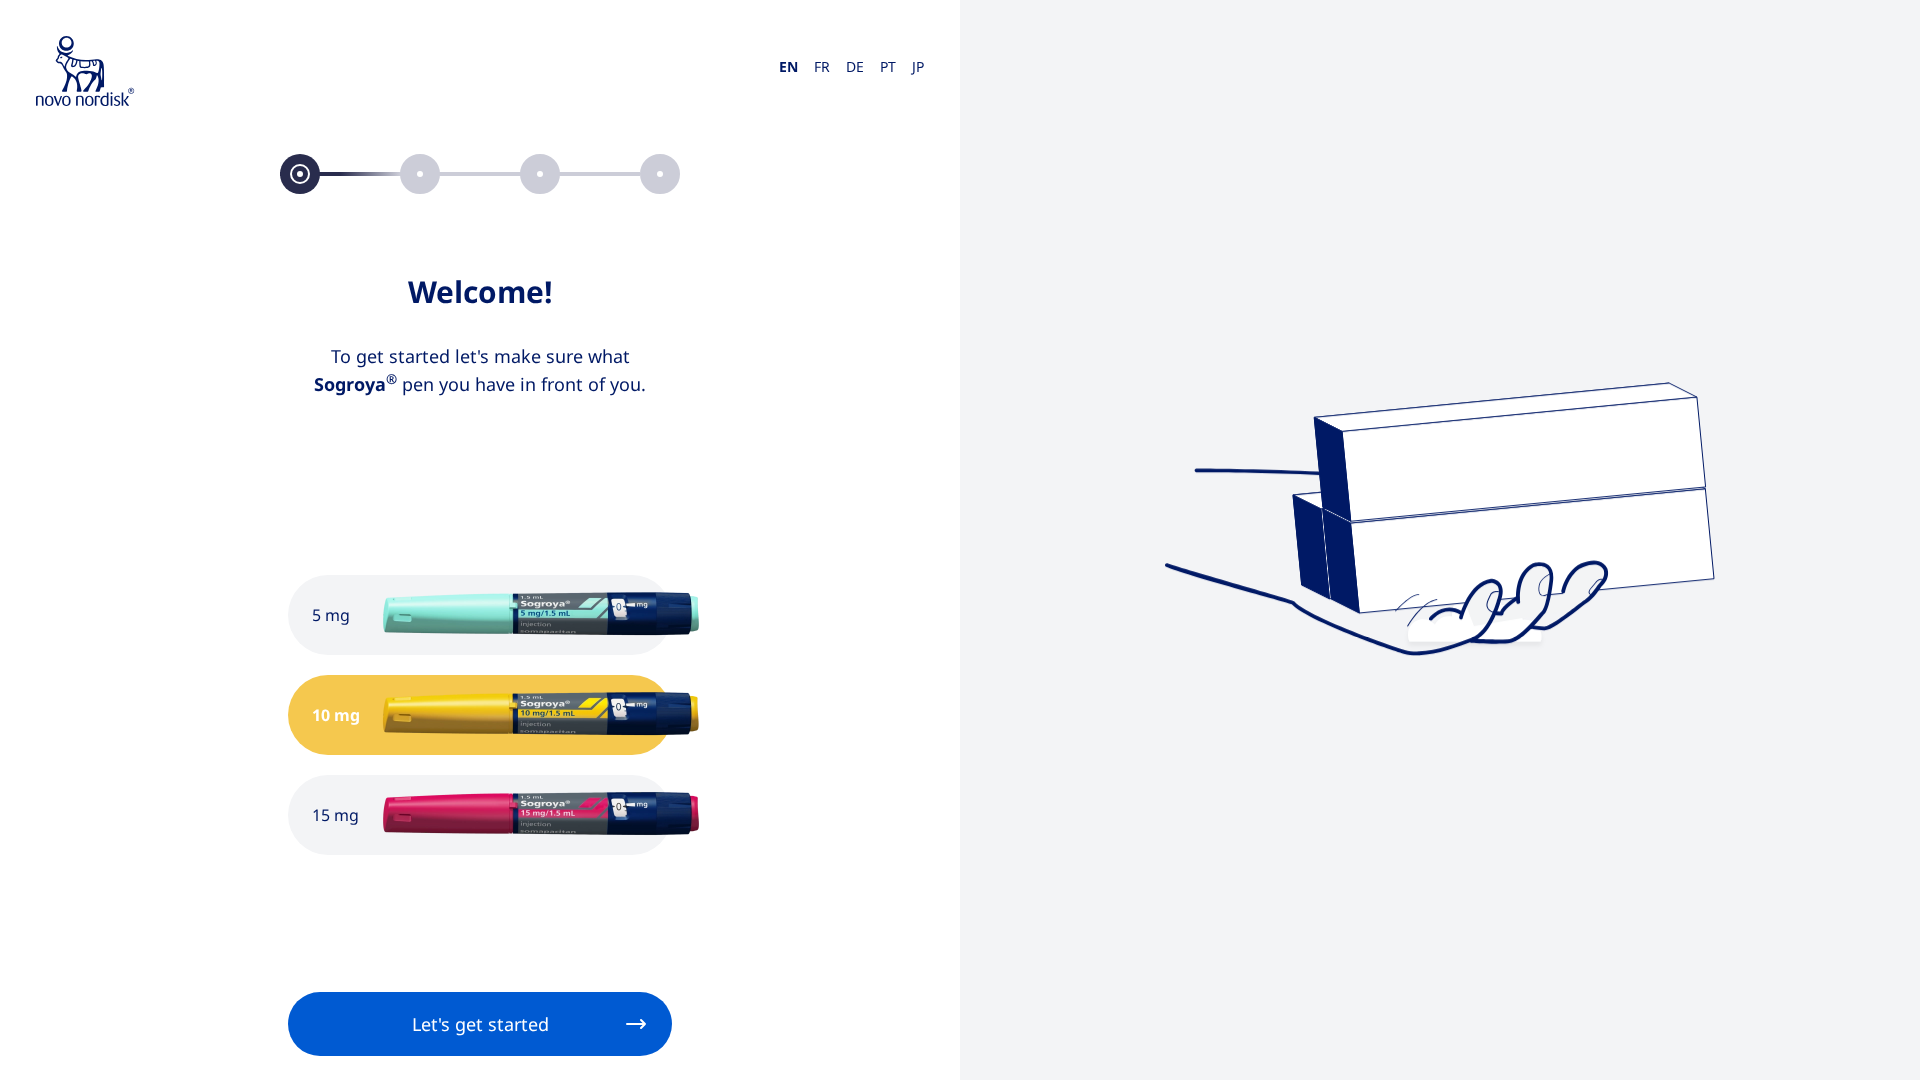
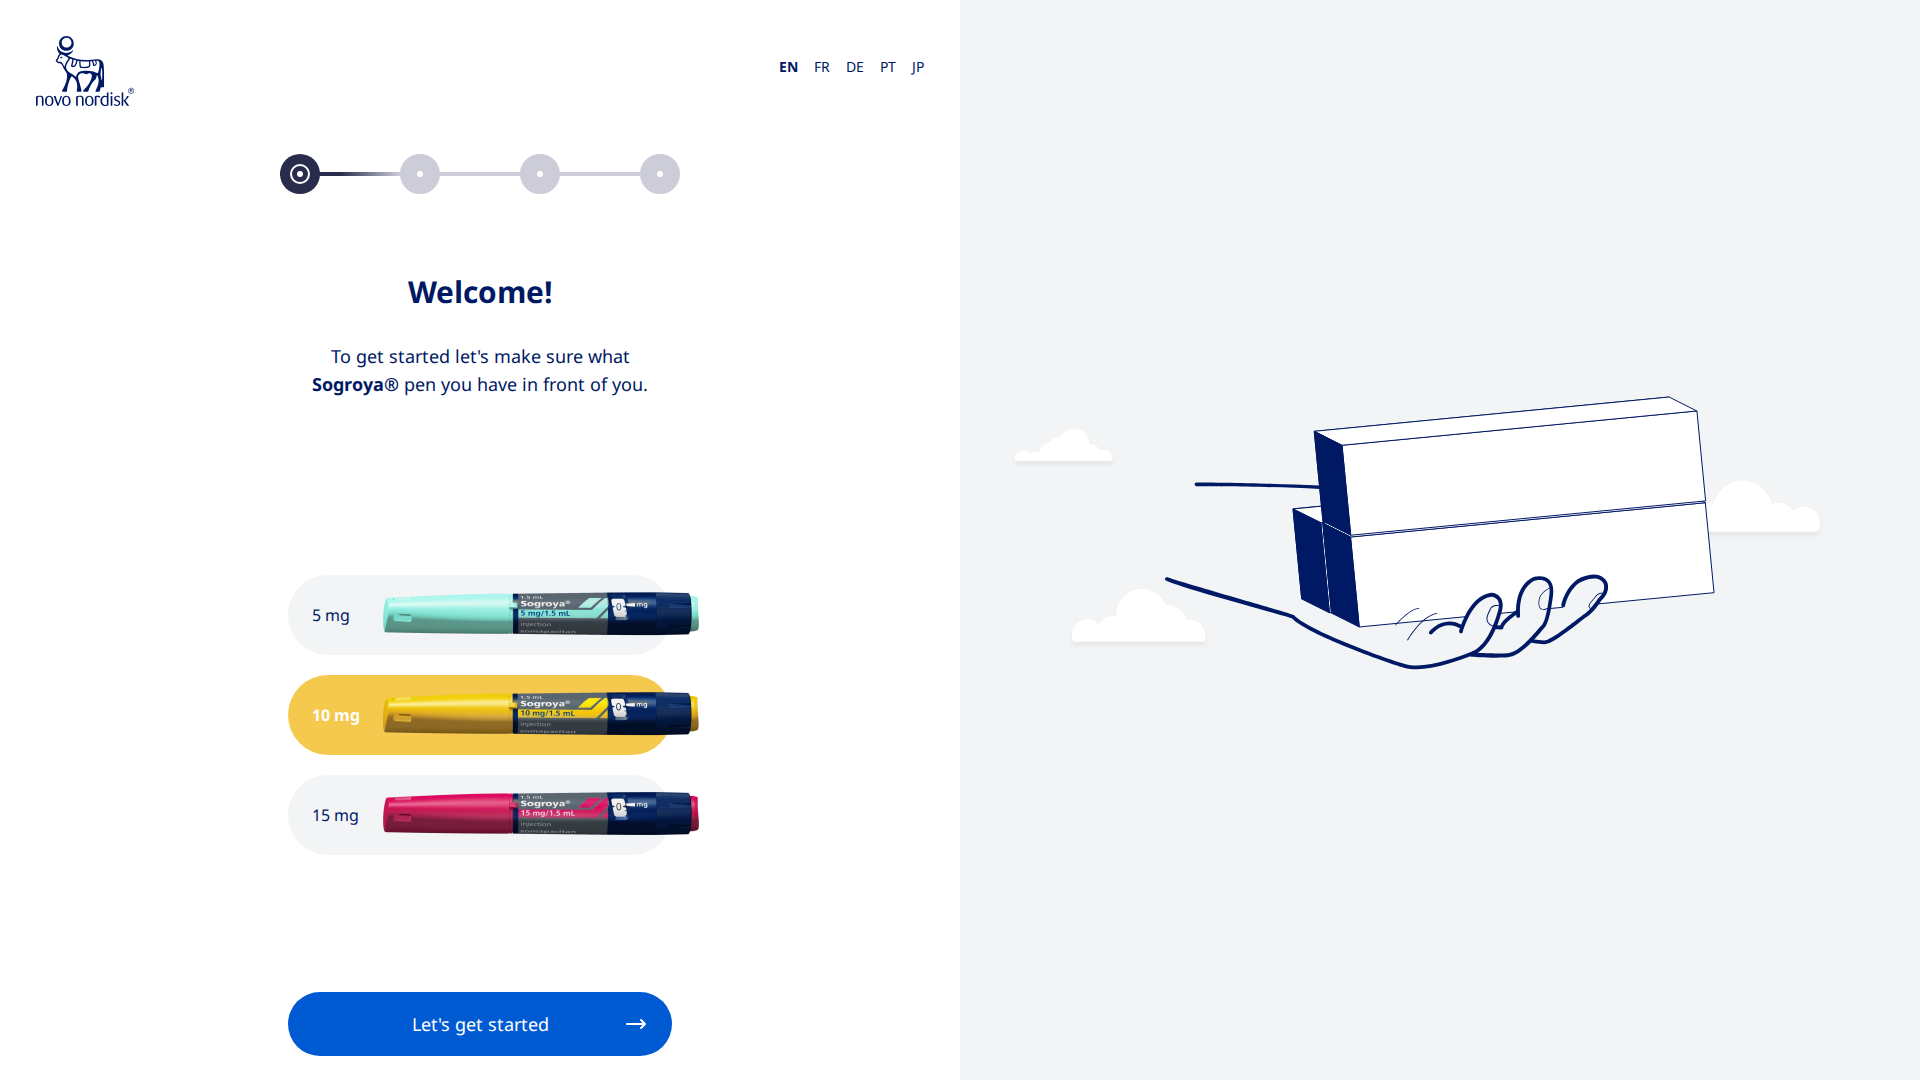
feat(projects): add Sogroya case study

diff --git a/lib/data.ts b/lib/data.ts
@@ -263,6 +263,31 @@ export const projects = {
         "Live at makearoley.com — processing 500+ kid-made movies monthly",
     },
     {
+      title: "Sogroya Dose Reminder",
+      slug: "sogroya",
+      description:
+        "A four-step multilingual web app for setting once-weekly Sogroya medication reminders on mobile and desktop calendars. I built the SvelteKit + TypeScript SPA, five-language flow (English, French, German, Portuguese, and Japanese), privacy consent, dose/day/time selection, and in-browser ICS generation. Static deployment kept the experience fast, backend-free, and easy to distribute globally. Completed in 2023 and remained publicly accessible on its branded domain through at least July 2025.",
+      role: "Full-stack",
+      tags: [
+        "SvelteKit",
+        "TypeScript",
+        "Tailwind CSS",
+        "i18n",
+        "ICS",
+        "Vercel",
+      ],
+      screenshotURLs: [
+        "01-home.png",
+        "02-consent.png",
+        "03-schedule.png",
+        "04-download.png",
+      ],
+      madeForName: "Novo Nordisk",
+      madeForURL: "https://www.novonordisk.com/",
+      archived: true,
+      outcome: "Launched in 2023 for worldwide Novo Nordisk client use",
+    },
+    {
       title: "PayBridge",
       slug: "paybridge",
       description:

diff --git a/routes/llms-full.txt.ts b/routes/llms-full.txt.ts
@@ -98,6 +98,9 @@ ${blogList}
 - **Air Quality Sensor** (${BASE_URL}/projects/air-quality-sensor) — DIY ESP32-based air quality monitor with Home Assistant integration.
 - **Zond** (${BASE_URL}/projects/zond) — Internal health probe bridge for services behind SSO proxies. Probes HTTP endpoints through Authelia-secured gateways for Gatus and other monitoring tools.
 
+### Archived Client Case Study
+- **Sogroya Dose Reminder** (${BASE_URL}/projects/sogroya) — Once-weekly medication reminder launched in 2023 for worldwide Novo Nordisk client use. SvelteKit, TypeScript, five languages, and in-browser ICS calendar generation. Remained publicly accessible through July 2025.
+
 ### Tech Stack Used
 Deno, Node.js, TypeScript, Preact, React, Fresh, Hono, Angular, Svelte, PostgreSQL, Valkey/Redis, MongoDB, Firebase, Docker, Podman, Traefik, Hetzner, AWS, GCP, OpenAI, Claude, DeepSeek, Stripe, Tailwind CSS, WebSockets, PWA
 

diff --git a/static/sw.js b/static/sw.js
@@ -1,5 +1,5 @@
 // Cache version — bump on each deploy where sw.js changes
-const CACHE = "antonshubin-v57";
+const CACHE = "antonshubin-v60";
 
 const PRECACHE_URLS = [
   "/",

diff --git a/docs/seo-ai-crawlers.md b/docs/seo-ai-crawlers.md
@@ -78,14 +78,15 @@ Set these in `.env`. Never hardcode them in `_app.tsx`.
 
 Whenever any of these change, update the corresponding AI crawler files:
 
-| What changed              | Files to update                   |
-| ------------------------- | --------------------------------- |
-| New page added            | sitemap.xml.ts, llms-full.txt.ts  |
-| Pricing/offerings change  | llms.txt.ts, llms-full.txt.ts     |
-| Policies/terms change     | how-i-work.tsx (FAQ), llms.txt.ts |
-| Skills/positioning change | _app.tsx (JSON-LD), llms.txt.ts   |
-| Blog post added           | sitemap.xml.ts, llms-full.txt.ts  |
-| Crawler rules change      | robots.txt.ts                     |
+| What changed              | Files to update                              |
+| ------------------------- | -------------------------------------------- |
+| New page added            | sitemap.xml.ts, llms-full.txt.ts             |
+| Pricing/offerings change  | llms.txt.ts, llms-full.txt.ts                |
+| Policies/terms change     | how-i-work.tsx (FAQ), llms.txt.ts            |
+| Skills/positioning change | _app.tsx (JSON-LD), llms.txt.ts              |
+| Blog post added           | sitemap.xml.ts, llms-full.txt.ts             |
+| Project added             | sitemap.xml.ts (automatic), llms-full.txt.ts |
+| Crawler rules change      | robots.txt.ts                                |
 
 ## Testing
 

diff --git a/docs/seo-optimization-roadmap.md b/docs/seo-optimization-roadmap.md
@@ -208,7 +208,7 @@ roadmap for detailed steps.
 | -------------------------- | -------------------------------------------------------------------------- |
 | New blog post              | `routes/sitemap.xml.ts`, `routes/llms-full.txt.ts`                         |
 | New catalog item           | `routes/sitemap.xml.ts`, `routes/llms-full.txt.ts`                         |
-| New project                | `routes/sitemap.xml.ts`                                                    |
+| New project                | `routes/sitemap.xml.ts` (automatic), `routes/llms-full.txt.ts`             |
 | Add LinkedIn/X/YouTube URL | `lib/config.ts` (`SAME_AS_URLS`)                                           |
 | Change pricing/policies    | `routes/llms.txt.ts`, `routes/llms-full.txt.ts`                            |
 | Change crawler rules       | `routes/robots.txt.ts`                                                     |